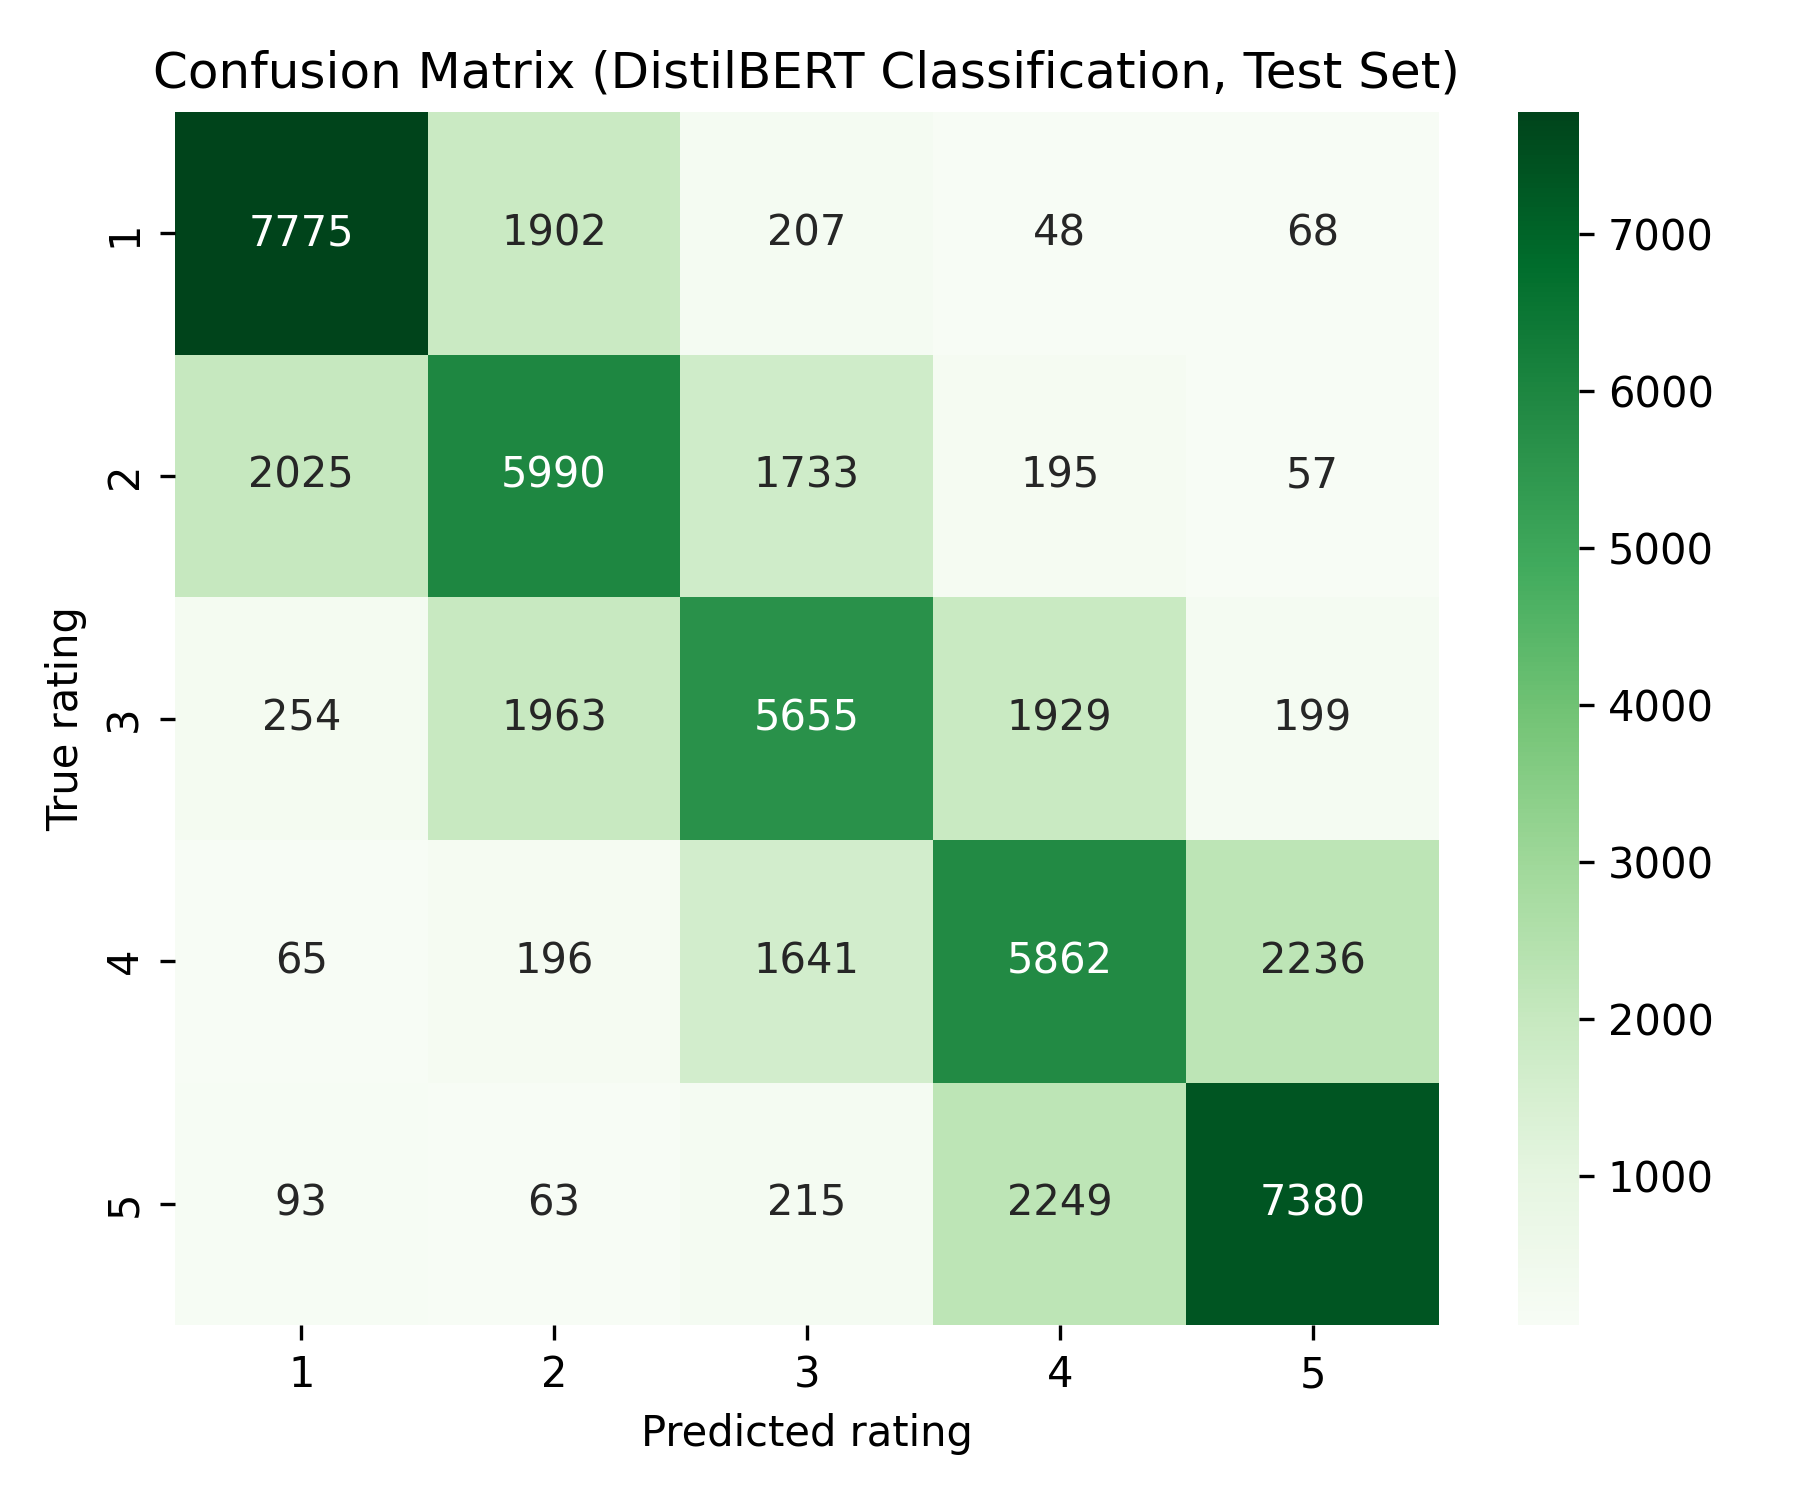
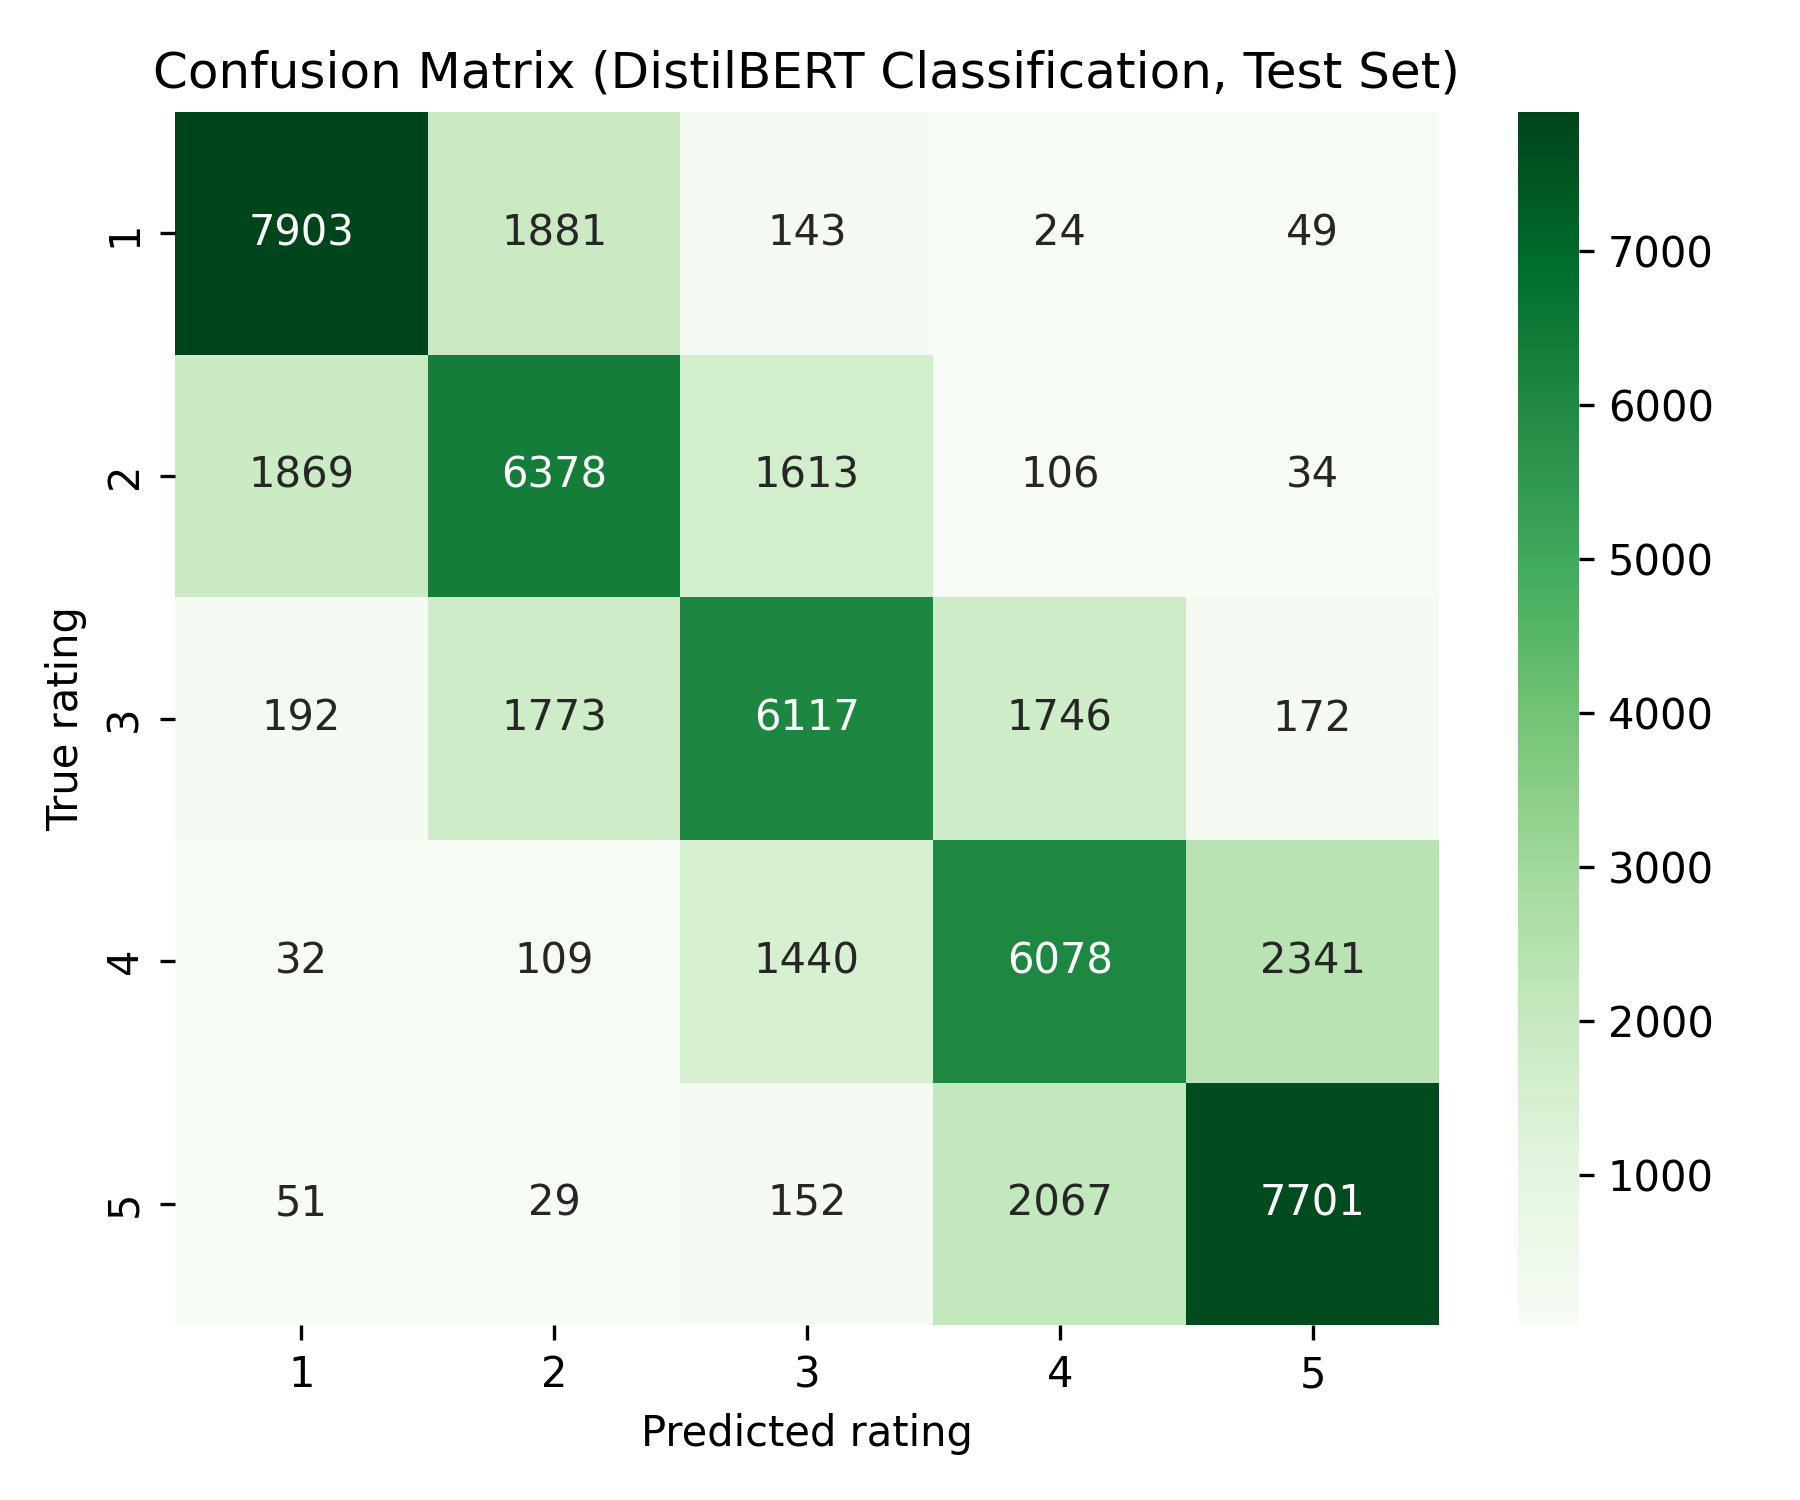
bert_cls max_length = 256

diff --git a/bert_cls.py b/bert_cls.py
@@ -32,7 +32,7 @@ def preprocess(examples):
         examples["text"],
         truncation=True,
         padding=False,   # dynamic padding will be applied by the data collator
-        max_length=128,  # optional: limit max sequence length for efficiency
+        max_length=256,  # optional: limit max sequence length for efficiency
     )
 
 # 5. Apply preprocessing to train, validation, and test splits
